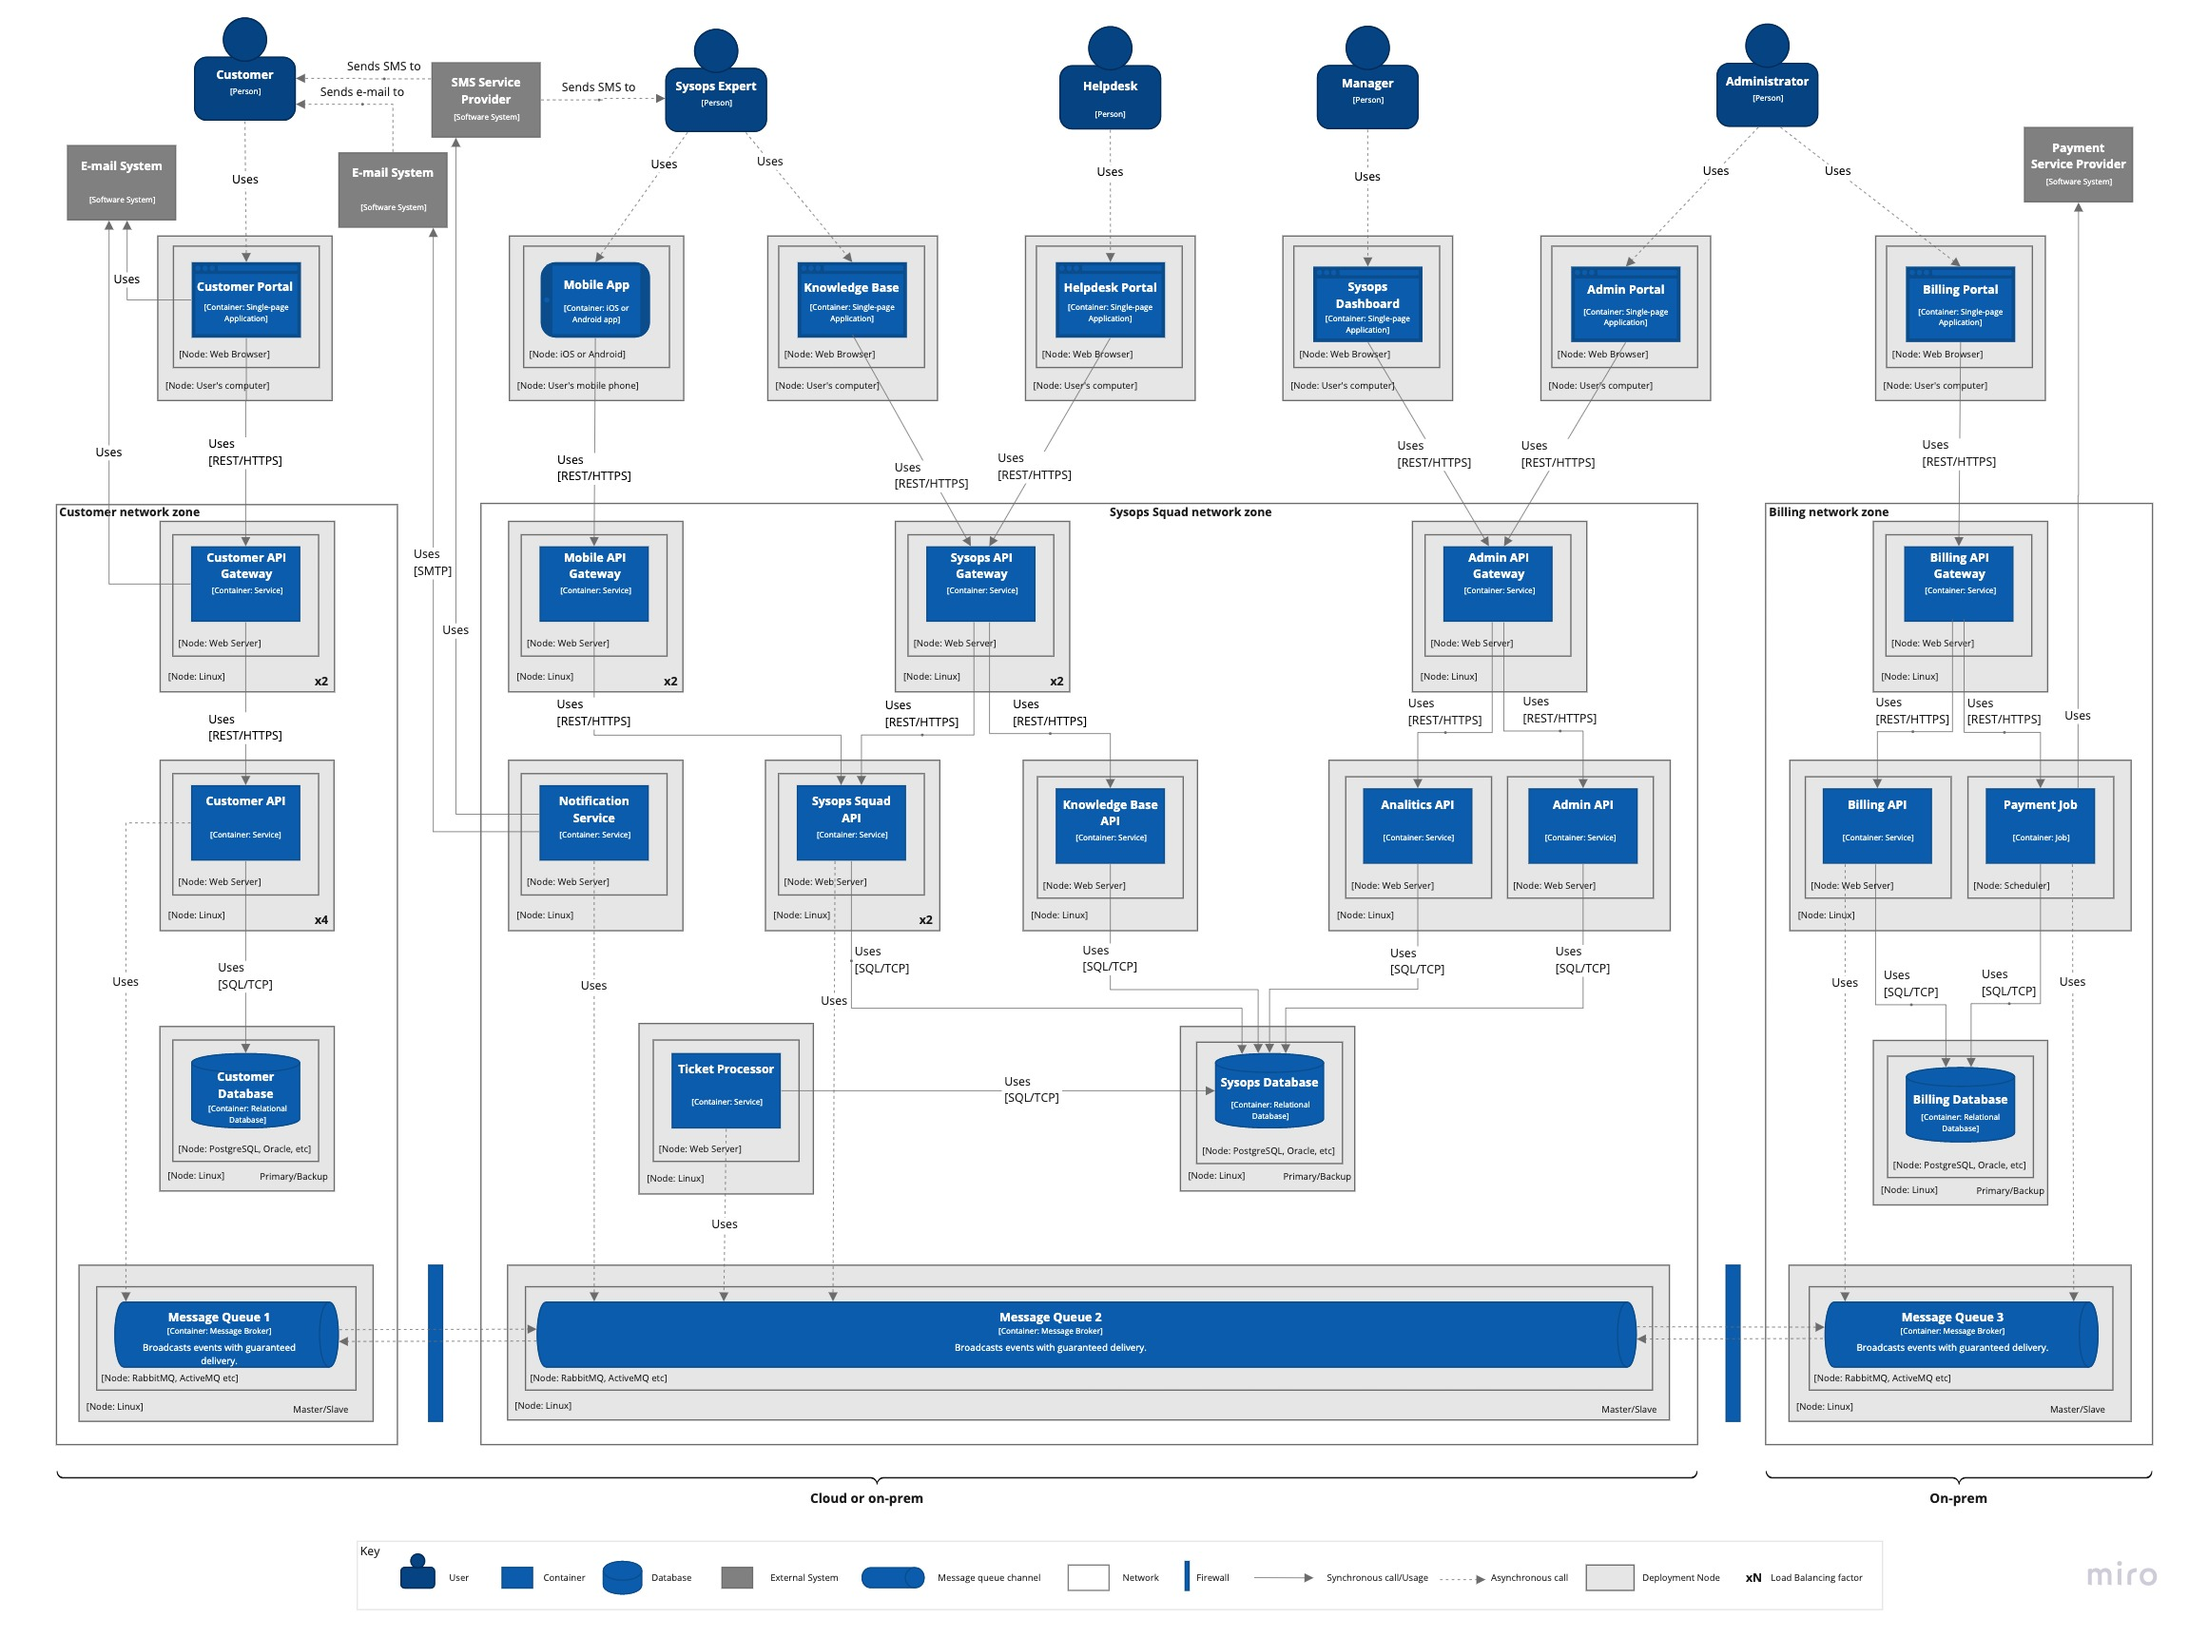
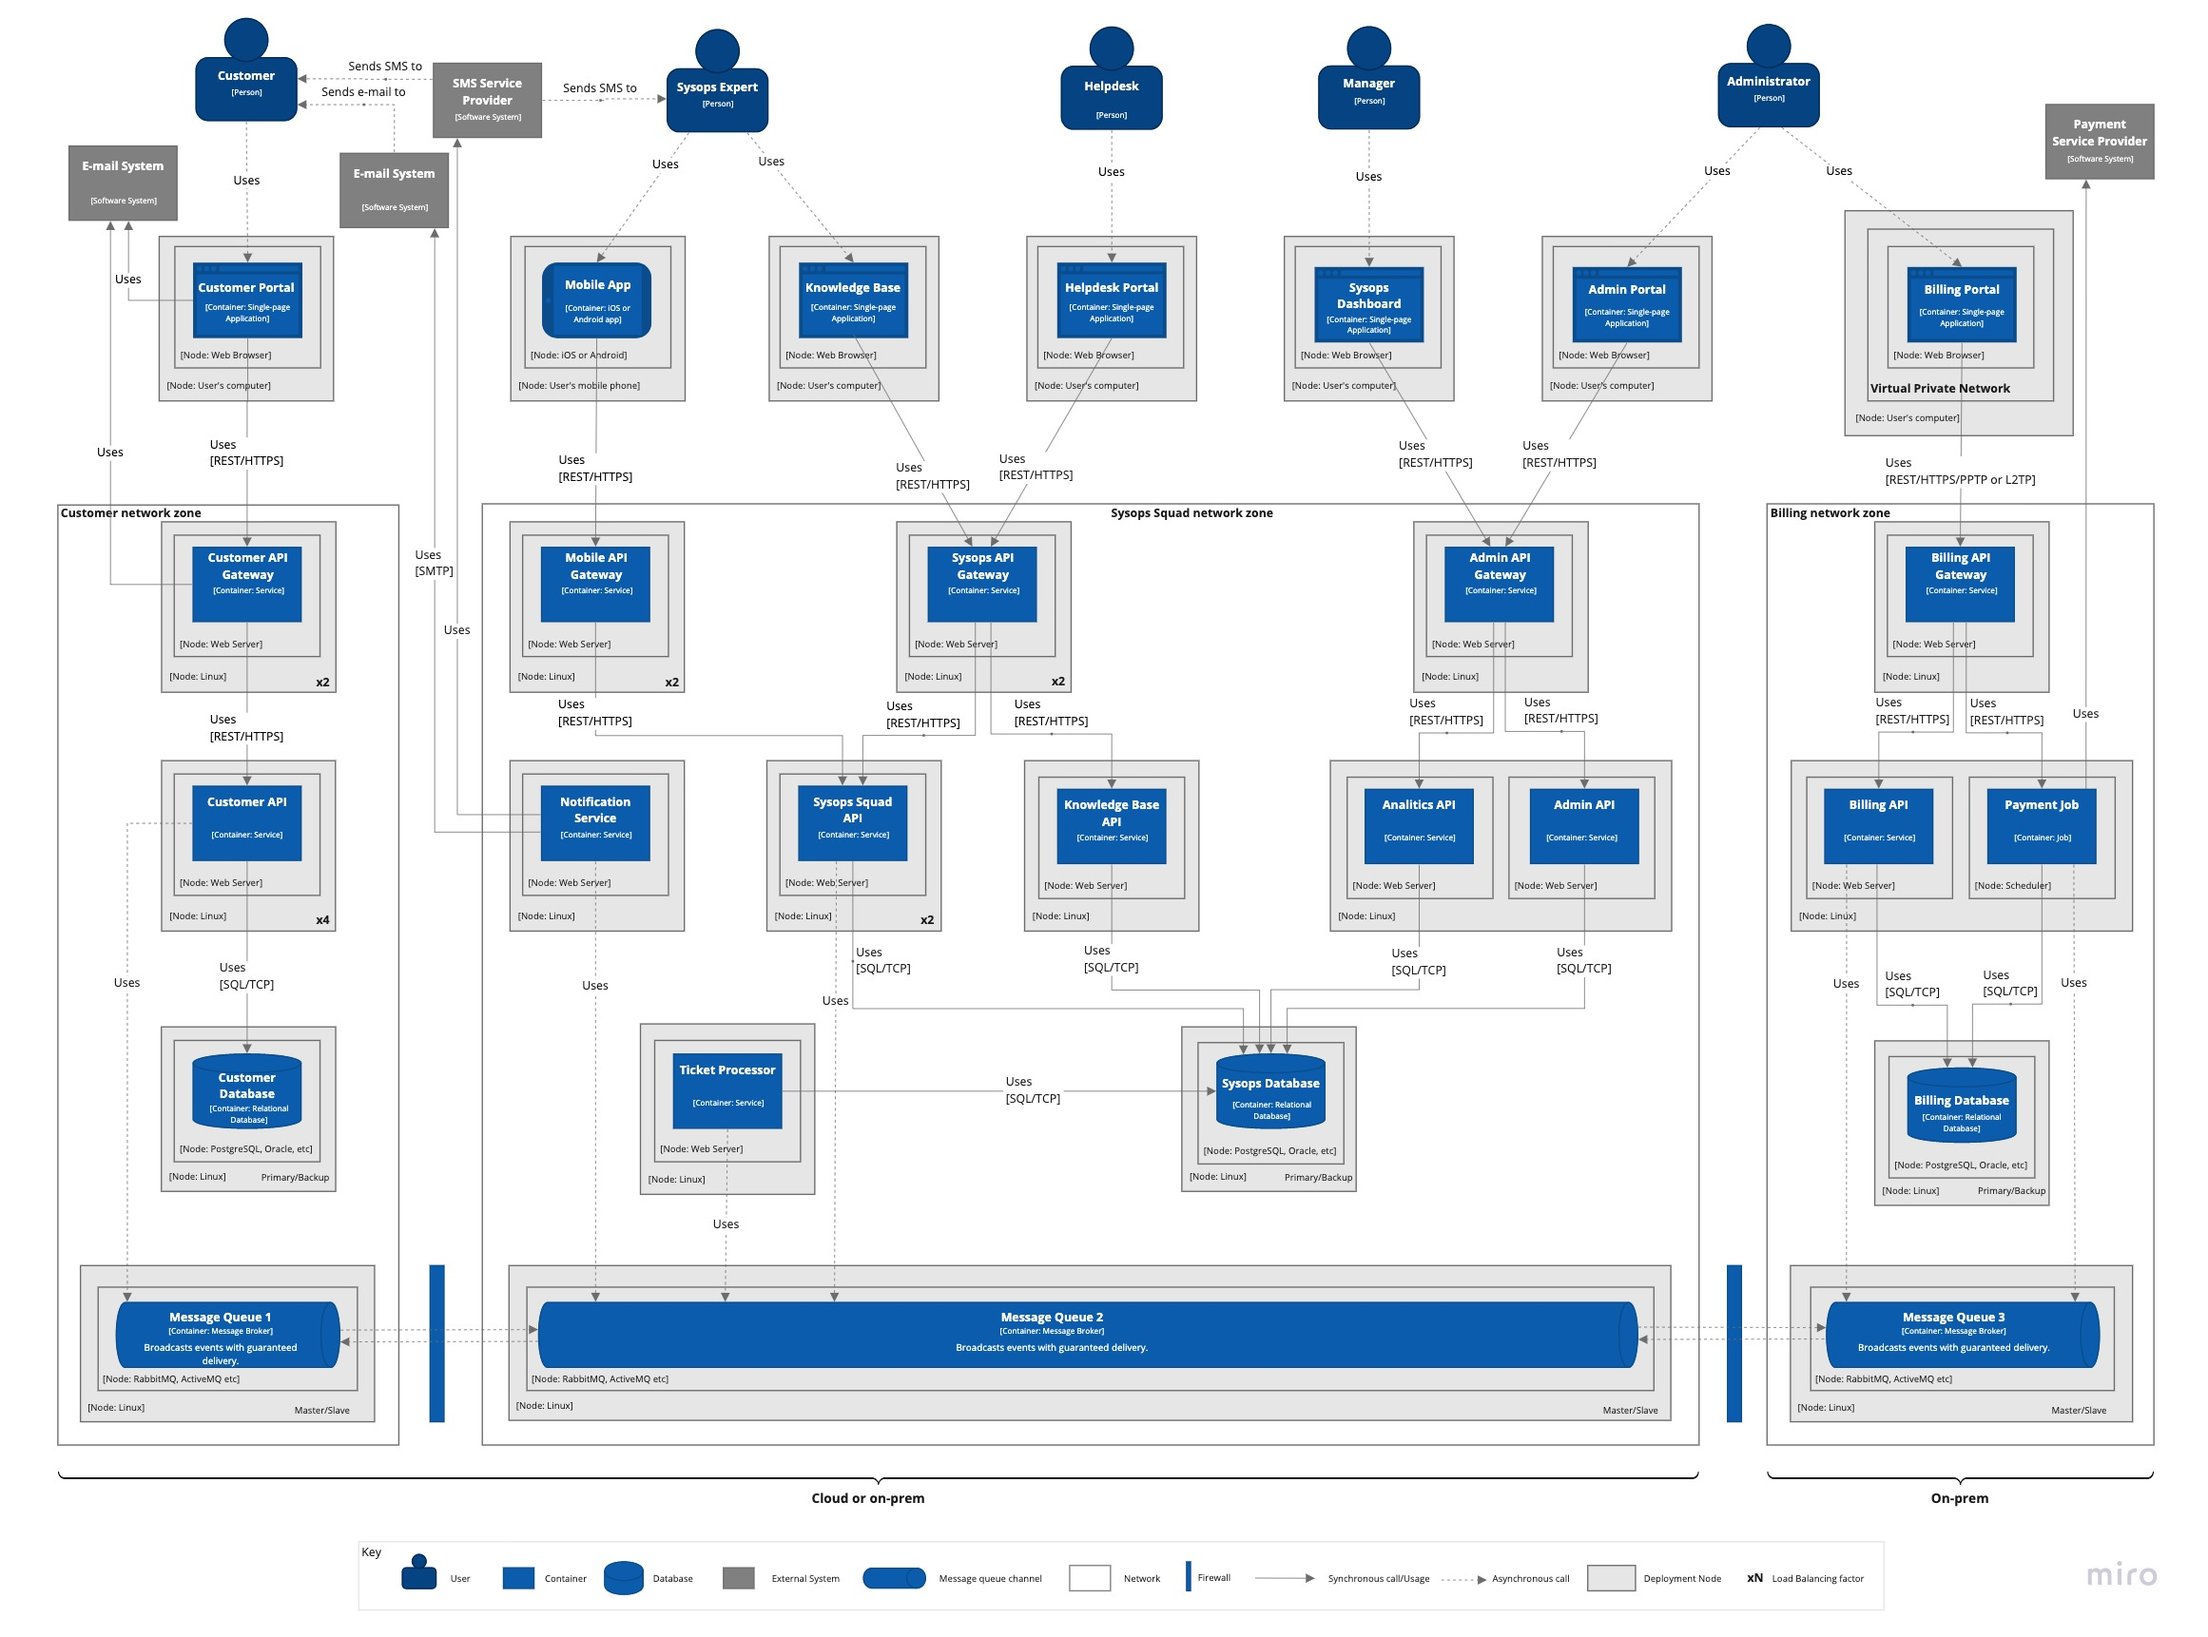
Add VPN for to access the billing portal on the deployment diagram

diff --git a/README.md b/README.md
@@ -2,7 +2,7 @@
 
 ## Contents
 
-- [Team](#team)  
+- [Team Seven](#team-seven)  
 - [Business Case](#business-case)  
 - [System Requirements](#system-requirements)  
     - [Functional Requirements](#functional-requirements)
@@ -103,10 +103,10 @@ The current trouble ticket system is a large monolithic application that was dev
 * **CON-1**: Integration? Cloud/on-prem?
 
 ### Assumptions
-* ASM-1: The mobile app can be changed.
-* ASM-2: Helpdesk assistants (aka Call Center) need access to the ticket sub-system and some customer information (contacts, maybe support plan). These are also users of the system although are not listed in the "Main Four Users" of the original requirements.
-* ASM-3: Call tracking system is out of scope of Sysops Squad system.
-* ASM-4: The company stores customer credit card information locally and does not interoperate with a 3-party authority (like 
+* **ASM-1**: The mobile app can be changed.
+* **ASM-2**: Helpdesk assistants (aka Call Center) need access to the ticket sub-system and some customer information (contacts, maybe support plan). These are also users of the system although are not listed in the "Main Four Users" of the original requirements.
+* **ASM-3**: Call tracking system is out of scope of Sysops Squad system.
+* **ASM-4**: The company stores customer credit card information locally and does not interoperate with a 3-party authority (like 
 
 ## Baseline Architecture
 This section describes the architecture of the current ticket system.
